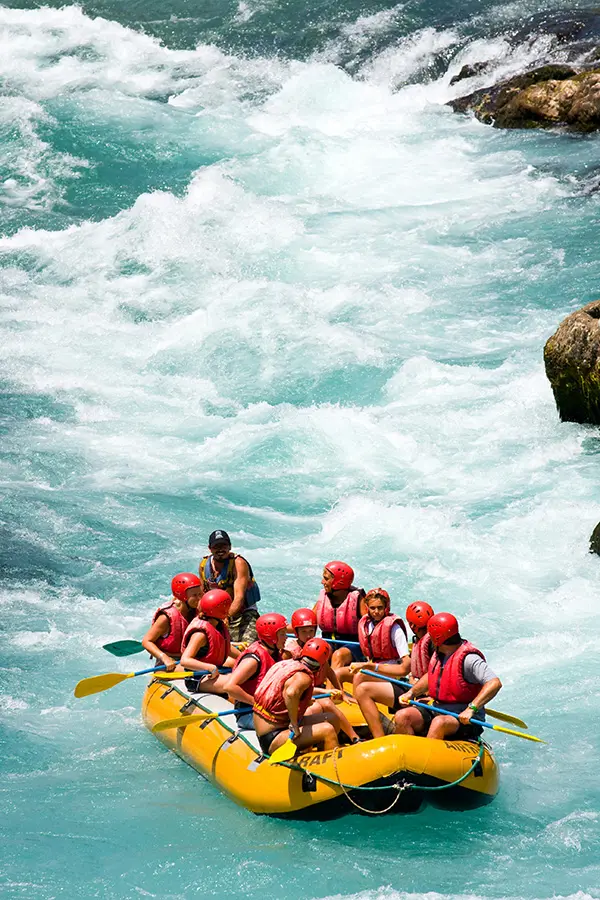
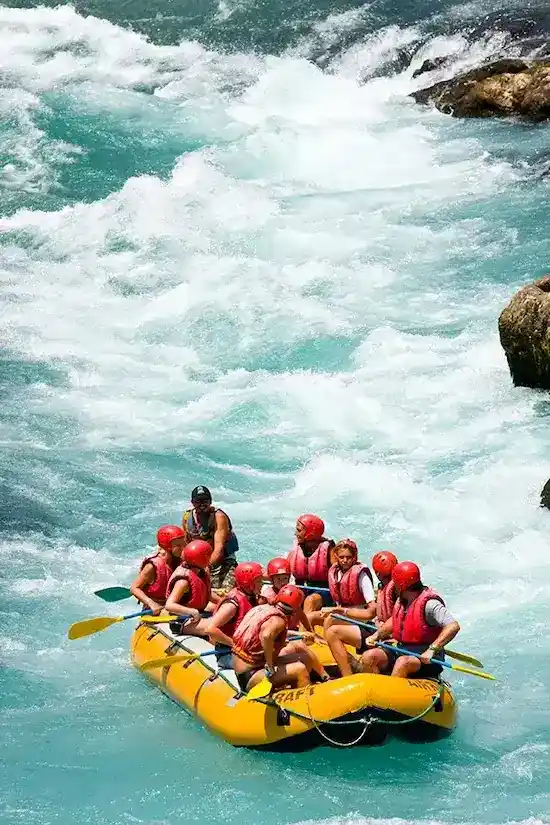
minimized page sizes

diff --git a/wwr/about.html b/wwr/about.html
@@ -50,7 +50,7 @@
                 </h2>
                 <div class="images">
                     <figure>
-                    <img src="images/rafting1.jpg" alt="Happy Group of People Rafting">
+                    <img src="images/rafting1.webp" alt="Happy Group of People Rafting">
                     <figcaption>Large Groups</figcaption>
                     </figure>
                     <figure>
@@ -58,7 +58,7 @@
                     <figcaption>Colorado River</figcaption>
                 </figure>
                     <figure>
-                    <img src="images/rafting3.jpg" alt="Beautiful River">
+                    <img src="images/rafting3.webp" alt="Beautiful River">
                     <figcaption>Green River</figcaption>
                 </figure>
                 <figure>
@@ -84,7 +84,7 @@
             <img src="images/twitter.png" alt="Twitter">
         </a>
         <a href="https://www.instagram.com/">
-            <img src="images/instagram.jpg" alt="Instagram">
+            <img src="images/instagram.webp" alt="Instagram">
         </a>
         </div>
         </footer>

diff --git a/wwr/styles/rafting.css b/wwr/styles/rafting.css
@@ -73,10 +73,12 @@ nav {
     margin-right: 70px;
         }
 
-.hero {position: relative;}
+.hero {position: relative;
+   }
 
 .main {
     opacity: 85%;
+    width: 100%;
 }
 
 article {
